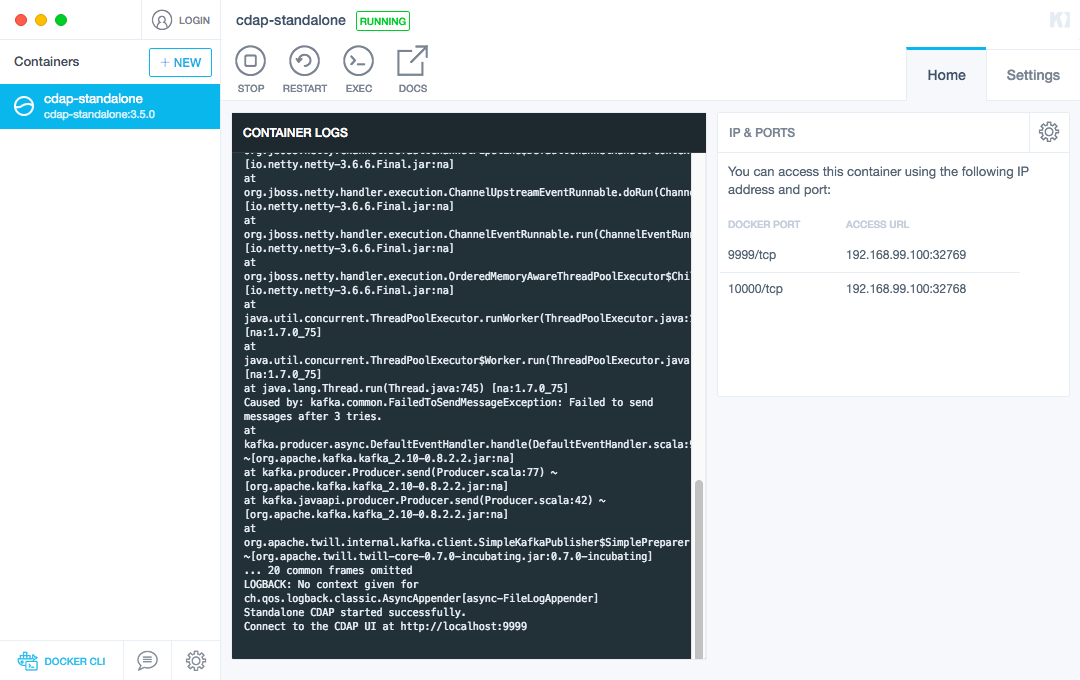
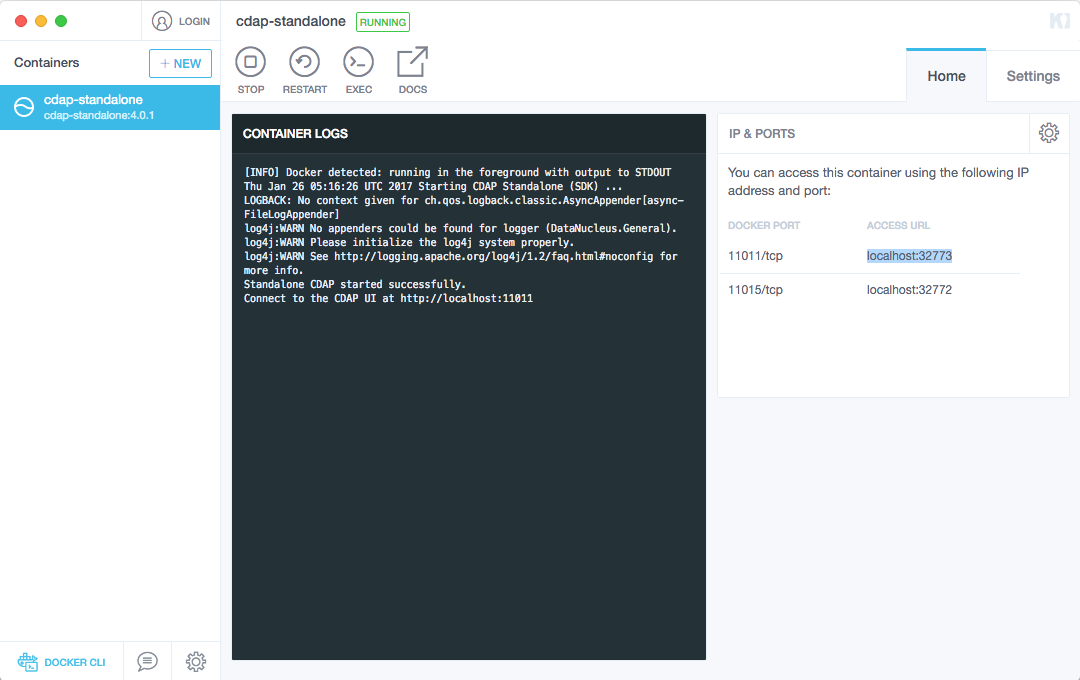
work-in-progress

diff --git a/cdap-docs/developers-manual/source/getting-started/standalone/docker.rst b/cdap-docs/developers-manual/source/getting-started/standalone/docker.rst
@@ -38,9 +38,11 @@ started correctly.
      :languages: console,shell-session
      
      $ docker-machine create --driver virtualbox cdap
+     . . .
      $ docker-machine env cdap
      
-   This will create a new Docker virtual machine using VirtualBox named ``cdap`` and print out the environment.
+   This will create a new Docker virtual machine using VirtualBox named ``cdap``; once
+   created, the second command will print out the environment.
 
 #. When you run ``docker-machine env cdap``, it will print a message on the screen such as::
 
@@ -51,14 +53,17 @@ started correctly.
      # Run this command to configure your shell: 
      # eval $(docker-machine env cdap)
  
-   It is essential to run these export commands (or the single ``eval`` command). Otherwise,
-   subsequent Docker commands will fail because they won't be able to connect to the correct
-   Docker VM.
+   It is essential to run these export commands (or the single ``eval`` command, ``eval
+   $(docker-machine env cdap)``). Otherwise, subsequent Docker commands will fail because
+   they won't be able to connect to the correct Docker VM.
   
 #. If you are running **Docker on either Mac OS X or Microsoft Windows**, Docker is running a
    virtual Linux machine on top of your host OS. You will need to use the address shown
    above (such as ``192.168.99.100``) as the host name when either connecting to the CDAP
    UI or making an HTTP request.
+
+#. If you are running **Docker on Microsoft Windows**, note that paths used employ Linux
+   forward-slashes (``/``) and not the Microsoft Windows back-slashes (``\\``).
 
 #. Once Docker has started, pull down the *CDAP Docker Image* from the Docker Hub using:
 
@@ -86,7 +91,20 @@ started correctly.
  
      $ docker run -d --name cdap-standalone -p 11011:11011 -p 11015:11015 caskdata/cdap-standalone:|release|
      
-   This will start the container, name it ``cdap-standalone``, and setup the proxying of ports.
+   This will start the container (in the background), name it ``cdap-standalone``, and set the proxying of ports.
+
+#. Start the *CDAP Standalone Docker container* with:
+
+   .. tabbed-parsed-literal::
+     :tabs: "Linux or Mac OS X",Windows
+     :mapping: linux,windows
+     :dependent: linux-windows
+     :languages: console,shell-session
+ 
+     $ docker run -it --name cdap-sdk-debugging -p 11011:11011 -p 11015:11015 caskdata/cdap-standalone:|release| cdap.sh start --enable-debug 
+     
+   This will start the container (in the foreground, the default), :ref:`enable debugging
+   <debugging-standalone>`, name it ``cdap-sdk-debugging``, and set the proxying of ports.
 
 #. CDAP will start automatically once the container starts. CDAP’s software
    directory is under ``/opt/cdap/sdk``.
@@ -98,43 +116,104 @@ started correctly.
    with the Docker VM's IP address (such as ``192.168.99.100``) that you obtained earlier.
    Start a browser and enter the address to access the CDAP UI from outside Docker.
 
-#. To control the CDAP instance, use this command, substituting one of ``start``, ``restart``, ``status``,
-   or ``stop`` for ``<command>``:
 
-   .. tabbed-parsed-literal::
-     :tabs: "Linux or Mac OS X",Windows
-     :mapping: linux,windows
-     :dependent: linux-windows
-     :languages: console,shell-session
-     
-     .. Linux or Mac OS X
-     
-     $ docker exec -d cdap-standalone /opt/cdap/sdk/bin/cdap sdk <command>
+Options when Starting CDAP Containers
+-------------------------------------
 
-     .. Windows
-     
-     > docker exec -d cdap-standalone /opt/cdap/sdk/bin/cdap sdk <command>
+- Starting the Standalone CDAP, in the background::
 
-#. When you are finished, stop CDAP and then shutdown Docker:
+    $ docker run -d --name cdap-standalone caskdata/cdap-standalone
 
-   .. tabbed-parsed-literal::
-     :tabs: "Linux or Mac OS X",Windows
-     :mapping: linux,windows
-     :dependent: linux-windows
-     :languages: console,shell-session
-     
-     .. Linux or Mac OS X
-     
-     $ docker exec -d cdap-standalone /opt/cdap/sdk/bin/cdap sdk stop
-     $ docker-machine stop cdap
+- Use the CDAP CLI within the above *cdap-standalone* container::
 
-     .. Windows
-     
-     > docker exec -d cdap-standalone /opt/cdap/sdk/bin/cdap sdk stop
-     > docker-machine stop cdap
+    $ docker exec -it cdap-standalone cdap-cli.sh
 
-#. For a full list of Docker Commands, see the `Docker Command Line Documentation.
-   <https://docs.docker.com/reference/commandline/cli/>`__
+- Use the CDAP CLI in its own container (*cdap-cli*), against a remote CDAP instance at ``${CDAP_HOST}``::
+
+    $ docker run -it --name cdap-cli --rm caskdata/cdap-standalone cdap-cli.sh -u http://${CDAP_HOST}:11011
+
+- Use the CDAP CLI in its own container (*cdap-cli*), against the above *cdap-standalone* container using container linking::
+
+    $ docker run -it --link cdap-sdk:sdk --name cdap-cli --rm caskdata/cdap-standalone sh -c 'exec cdap-cli.sh -u http://${SDK_PORT_11011_TCP_ADDR}:${SDK_PORT_11011_TCP_PORT}'
+
+- Starting the Standalone CDAP, in the foreground, with ports forwarded::
+
+    $ docker run -it -p 11015:11015 -p 11011:11011 --name cdap-standalone caskdata/cdap-standalone cdap.sh start
+    
+- Starting the Standalone CDAP, in the foreground, with ports forwarded, and with debugging enabled::
+
+    $ docker run -it -p 11015:11015 -p 11011:11011 --name cdap-sdk-debugging caskdata/cdap-standalone cdap.sh start --enable-debug
+
+  .. tabbed-parsed-literal::
+    :tabs: "Linux or Mac OS X",Windows
+    :mapping: linux,windows
+    :dependent: linux-windows
+    :languages: console,shell-session
+    
+    .. Linux or Mac OS X
+    
+    $ docker exec -d cdap-standalone /opt/cdap/sdk/bin/cdap sdk <command>
+
+    .. Windows
+    
+    > docker exec -d cdap-standalone /opt/cdap/sdk/bin/cdap sdk <command>
+
+
+Controlling the CDAP Instance
+-----------------------------
+
+- To control the CDAP instance, use this command, substituting one of ``start``, ``restart``, ``status``,
+  or ``stop`` for ``<command>``:
+
+  .. tabbed-parsed-literal::
+    :tabs: "Linux or Mac OS X",Windows
+    :mapping: linux,windows
+    :dependent: linux-windows
+    :languages: console,shell-session
+    
+    .. Linux or Mac OS X
+    
+    $ docker exec -d cdap-standalone /opt/cdap/sdk/bin/cdap sdk <command>
+
+    $ docker exec -d cdap-standalone /opt/cdap/sdk/bin/cdap sdk start
+    $ docker exec -d cdap-standalone /opt/cdap/sdk/bin/cdap sdk restart
+    $ docker exec -d cdap-standalone /opt/cdap/sdk/bin/cdap sdk status
+    $ docker exec -d cdap-standalone /opt/cdap/sdk/bin/cdap sdk stop
+
+    .. Windows
+    
+    > docker exec -d cdap-standalone /opt/cdap/sdk/bin/cdap sdk <command>
+
+    > docker exec -d cdap-standalone /opt/cdap/sdk/bin/cdap sdk start
+    > docker exec -d cdap-standalone /opt/cdap/sdk/bin/cdap sdk restart
+    > docker exec -d cdap-standalone /opt/cdap/sdk/bin/cdap sdk status
+    > docker exec -d cdap-standalone /opt/cdap/sdk/bin/cdap sdk stop
+
+
+- When you are finished, stop CDAP and then shutdown Docker:
+
+  .. tabbed-parsed-literal::
+    :tabs: "Linux or Mac OS X",Windows
+    :mapping: linux,windows
+    :dependent: linux-windows
+    :languages: console,shell-session
+    
+    .. Linux or Mac OS X
+    
+    $ docker exec -d cdap-standalone /opt/cdap/sdk/bin/cdap sdk stop
+    $ docker-machine stop cdap
+
+    .. Windows
+    
+    > docker exec -d cdap-standalone /opt/cdap/sdk/bin/cdap sdk stop
+    > docker-machine stop cdap
+
+
+Docker Resources
+----------------
+
+- For a full list of Docker Commands, see the `Docker Command Line Documentation.
+  <https://docs.docker.com/engine/reference/commandline/cli/>`__
 
 
 .. _docker-kitematic:
@@ -143,19 +222,29 @@ Docker using Kitematic
 ======================
 
 `Docker Kitematic <https://www.docker.com/docker-kitematic>`__ is available as part of the
-`Docker Toolbox <https://www.docker.com/docker-toolbox>`__ for either Mac OS X or Microsoft Windows.
+`Docker <https://www.docker.com/products/overview>`__ for either Mac OS X or Microsoft Windows.
 It is a graphical user interface for running Docker containers. Follow these steps to install 
 Kitematic and then download, start, and connect to a CDAP container.
 
-#. Download and install the `Docker Toolbox <https://www.docker.com/docker-toolbox>`__ for 
+#. Download and install `Docker <https://www.docker.com/products/overview>`__ for 
    either Mac OS X or Microsoft Windows.
+   
+#. Download and install Kitematic for either Mac OS X or Microsoft Windows. The easiest
+   method is to select *Open Kitematic* from the *Docker* menu, and follow the
+   instructions for downloading and installing it:
+   
+     .. figure:: ../../_images/kitematic/kitematic-0-installing.png
+        :figwidth: 100%
+        :width: 300px
+        :align: center
+        :class: bordered-image
 
 #. Start Kitematic. On Mac OS X, it will be installed in ``/Applications/Docker/Kitematic``; on 
    Windows, in ``Start Menu > Docker > Kitematic``.
    
-#. Once Kitematic has started, search for the **CDAP image** using the search box at the
-   top of the window and ``caskdata:cdap-standalone``. Then click on the repository menu,
-   circled in red here:
+#. Once Kitematic has started, search for the **CDAP image** by using the search box at the
+   top of the window and entering ``caskdata:cdap-standalone``. Once you have found the page, 
+   click on the **repository menu**, circled in red here:
  
      .. figure:: ../../_images/kitematic/kitematic-1-searching.png
         :figwidth: 100%
@@ -163,7 +252,7 @@ Kitematic and then download, start, and connect to a CDAP container.
         :align: center
         :class: bordered-image
 
-#. Click on the tags button:
+#. Click on the **tags** button:
  
      .. figure:: ../../_images/kitematic/kitematic-2-tags.png
         :figwidth: 100%
@@ -171,9 +260,9 @@ Kitematic and then download, start, and connect to a CDAP container.
         :align: center
         :class: bordered-image
 
-#. Select the desired version.
-   Note that the tag **latest** is the last version that was put up at Docker Hub, which is not the 
-   necessarily the desired version, which is |literal-version|:
+#. Select the **desired version**. Note that the tag *latest* is the last version that
+   was put up at Docker Hub, which is not the necessarily the desired version, which is
+   |bold-version| (*3.5.0* shown as an illustration):
  
      .. figure:: ../../_images/kitematic/kitematic-3-select-tag.png
         :figwidth: 100%
@@ -181,7 +270,7 @@ Kitematic and then download, start, and connect to a CDAP container.
         :align: center
         :class: bordered-image
 
-#. Close the menu by pressing the ``X`` in the circle. Press "Create" to download and start the CDAP image. 
+#. Close the menu by pressing the ``X`` in the circle. Click "Create" to download and start the CDAP image. 
    When it has started up, you will see in the logs a message that the CDAP UI is listening on port 11011:
  
      .. figure:: ../../_images/kitematic/kitematic-4-cdap-started.png
@@ -191,19 +280,19 @@ Kitematic and then download, start, and connect to a CDAP container.
         :class: bordered-image
 
 #. To connect a web browser for the CDAP UI, you'll need to find the external IP addresses
-   and ports that the Docker host is exposing. The easiest way to do that is click on the
-   *Settings* tab, and then the *Ports* tab:
+   and ports that the Docker host is exposing. These are listed on the right-hand side of
+   the previous illustration:
  
      .. figure:: ../../_images/kitematic/kitematic-5-links.png
         :figwidth: 100%
-        :width: 800px
+        :width: 400px
         :align: center
         :class: bordered-image
 
 #. This shows that the CDAP container is listening on the internal port ``11011`` within the
    Docker host, while the Docker host proxies that port on the virtual machine IP address
-   and port (``192.168.99.100:32769``). Enter that address and port into your system web browser to
-   connect to the CDAP UI:
+   and port (``localhost:32773``). Enter that address and port into your system web browser to
+   connect to the CDAP UI, such as http://localhost:32773:
    
      .. figure:: ../../_images/kitematic/kitematic-6-cdap-ui.png
         :figwidth: 100%

diff --git a/cdap-docs/developers-manual/source/testing/debugging.rst b/cdap-docs/developers-manual/source/testing/debugging.rst
@@ -8,6 +8,8 @@
 Debugging a CDAP Application
 ============================
 
+.. _debugging-standalone:
+
 Debugging an Application in Standalone CDAP
 ===========================================
 Any CDAP application can be debugged in the Standalone CDAP
